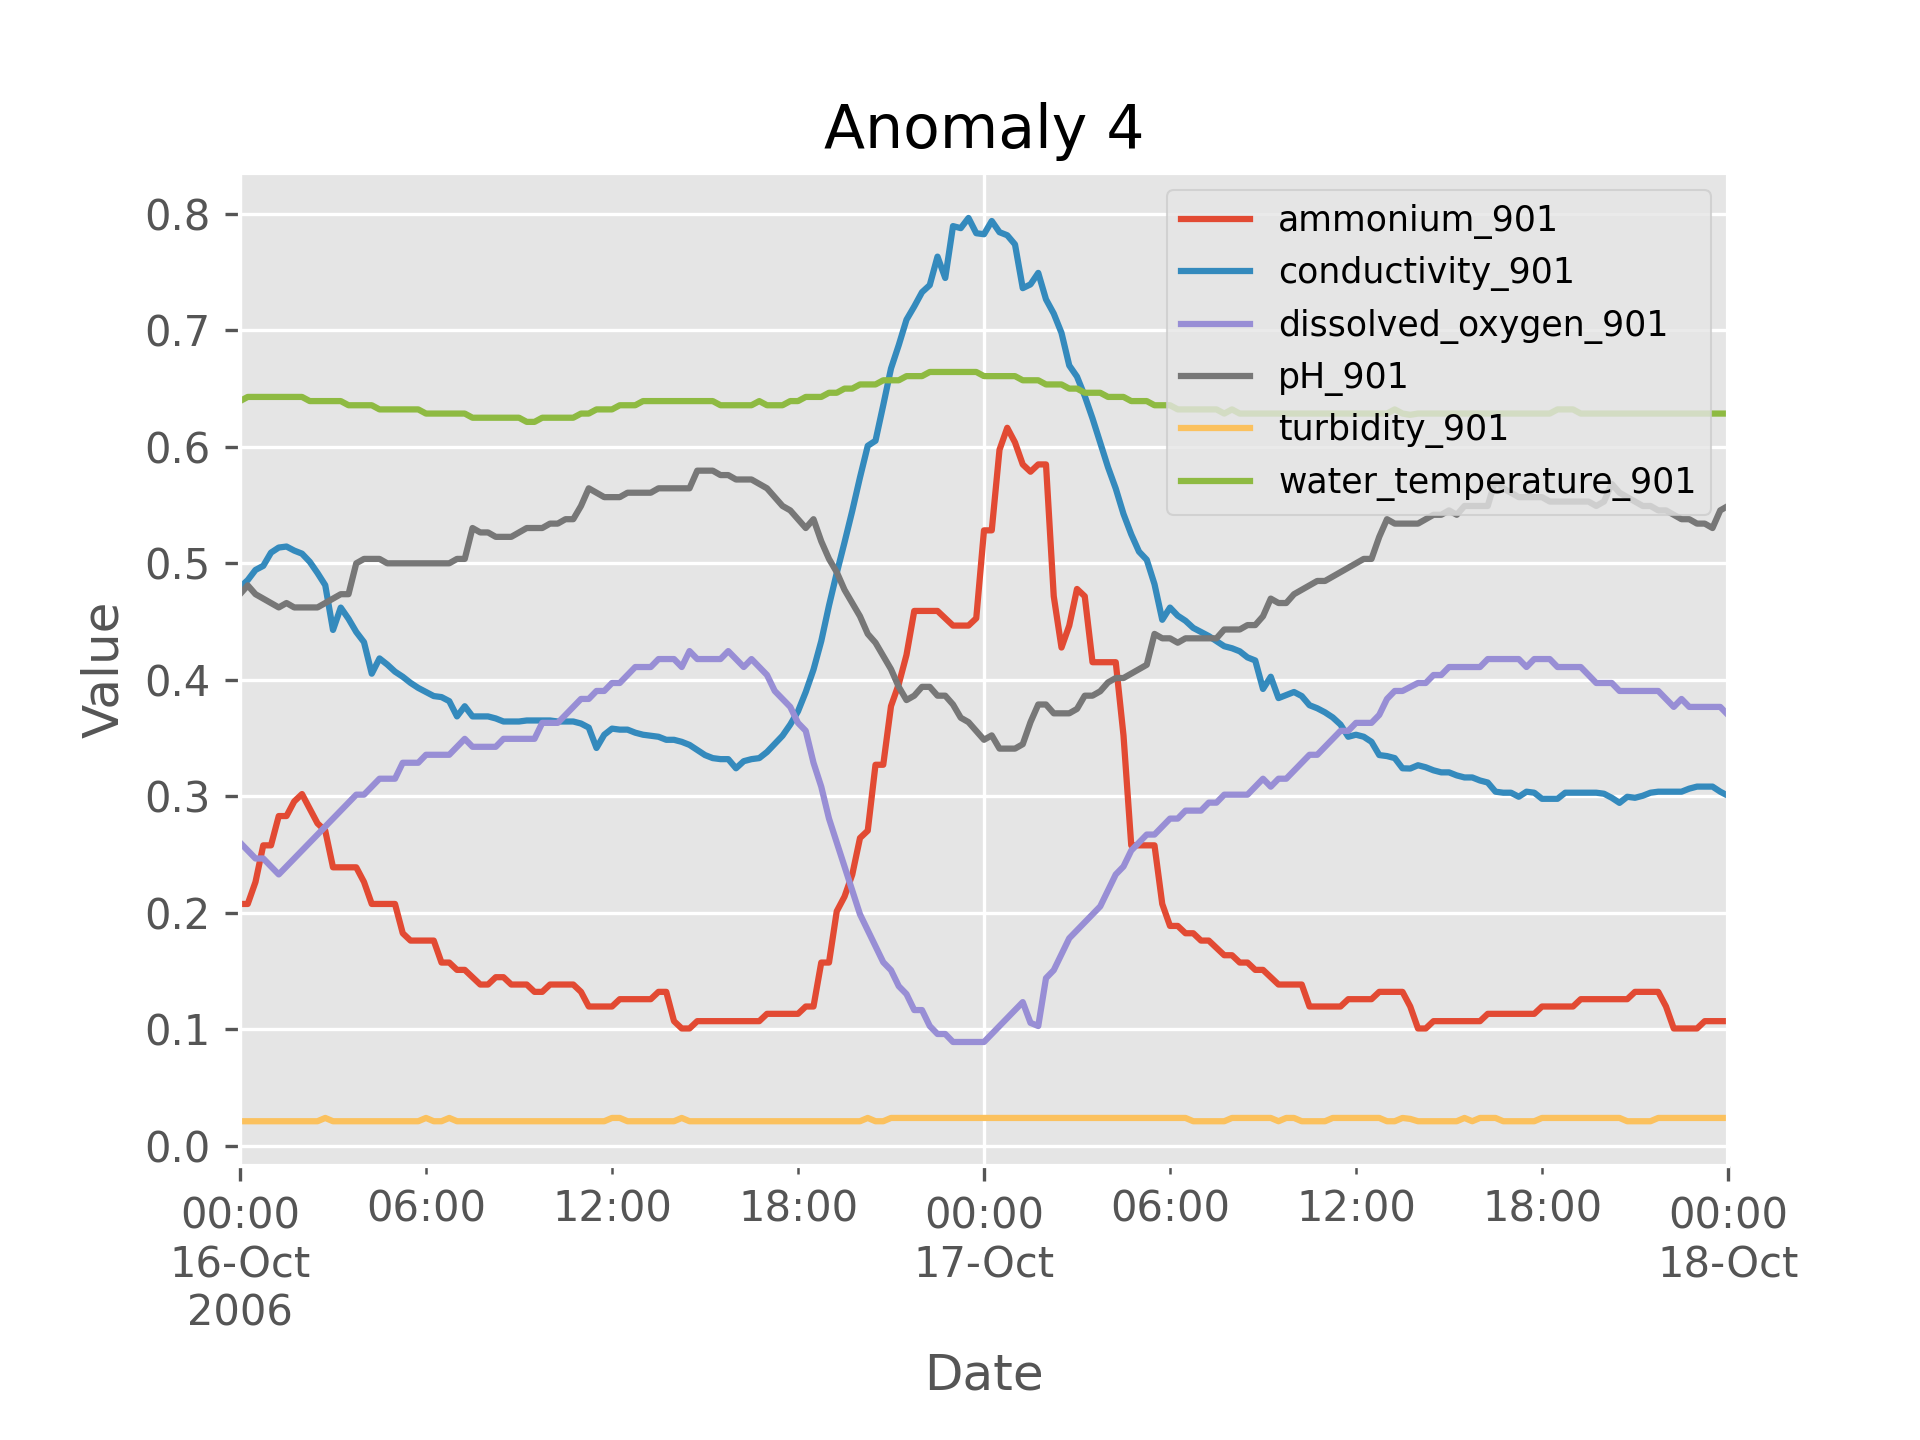
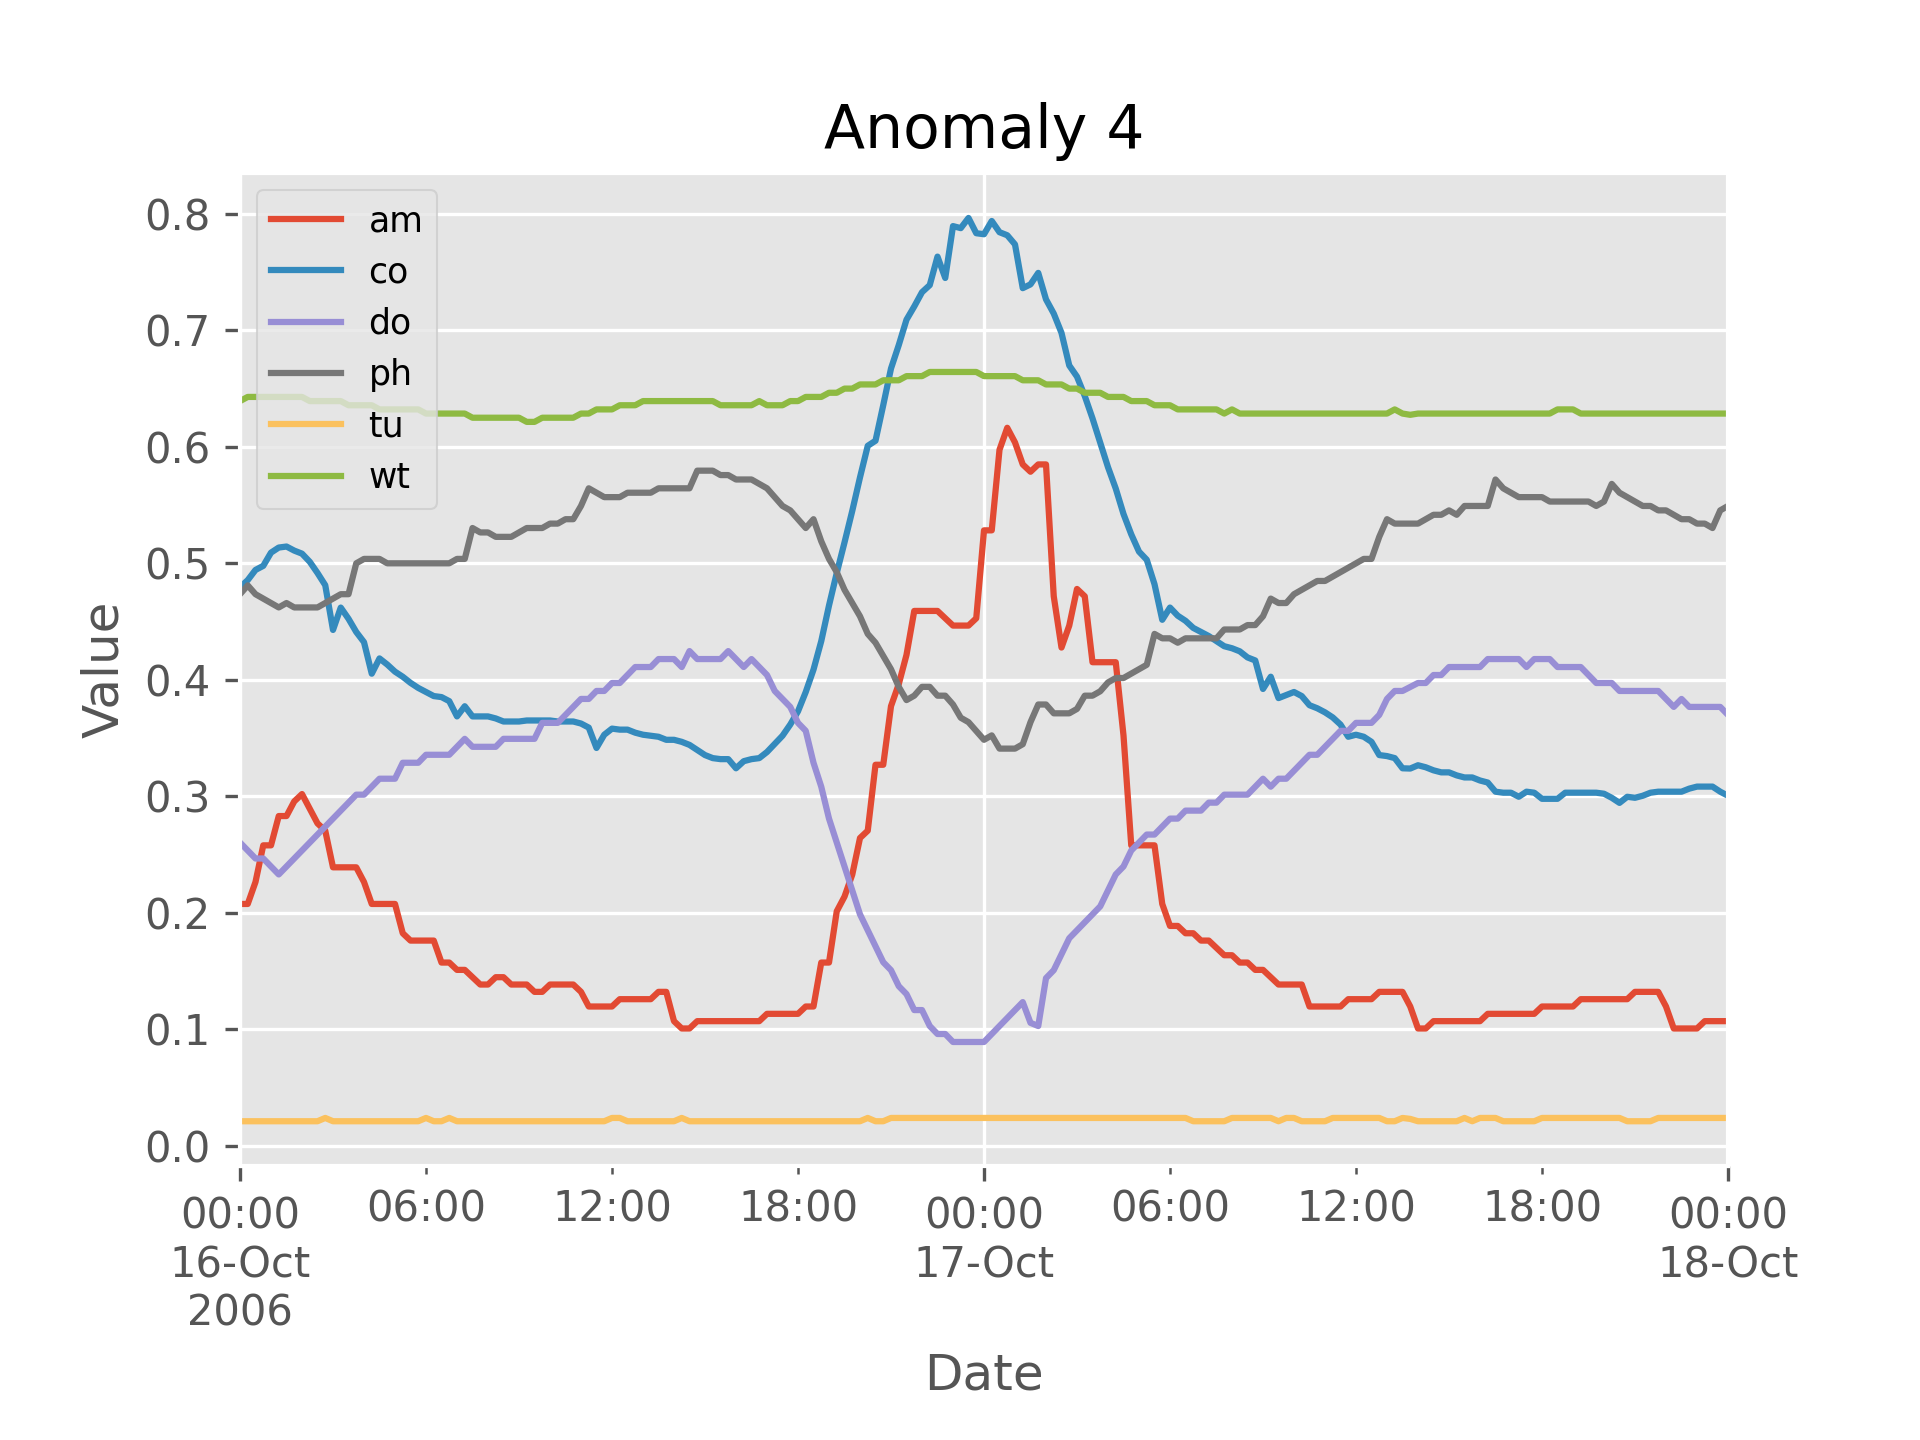
PDF plot anomaly

Changed region(s): [[0.5938, 0.125, 0.875, 0.375], [0.125, 0.2188, 0.2188, 0.3438], [0.1562, 0.125, 0.2188, 0.1875]]

diff --git a/plots/plotter_dates.py b/plots/plotter_dates.py
@@ -22,9 +22,9 @@ scaler = MinMaxScaler()
 data.iloc[:, 0:-1] = scaler.fit_transform(data.iloc[:, 0:-1])
 
 # Define start and end date
-start_date = '2008-08-31 00:00:00'
-end_date = '2008-09-03 00:00:00'
-anomaly_number = 21
+start_date = '2006-10-16 00:00:00'
+end_date = '2006-10-18 00:00:00'
+anomaly_number = 4
 
 # Filter the data between those dates
 filtered_data = data[(data.index >= start_date) & (data.index <= end_date)]
@@ -42,11 +42,12 @@ ax.set_xlabel('Date')
 ax.set_ylabel('Value')
 
 # Reduce the size of the legend
-ax.legend(fontsize='small', loc='upper left')
+ax.legend(["am", "co", "do", "ph", "tu", "wt"], fontsize='small', loc='upper left')
 
 # Save the image
 fig.subplots_adjust(bottom=0.19)
-fig.savefig(f'images_date/plot_{station}_anomaly_{anomaly_number}.png', format='png', dpi=300)
+# fig.savefig(f'plots/plot_{station}_anomaly_{anomaly_number}.png', format='png', dpi=300)
+fig.savefig(f'plots/plot_{station}_anomaly_{anomaly_number}.pdf', format='pdf', dpi=300, bbox_inches='tight')
 
 # Close the fig for better memory management
 plt.close(fig=fig)
